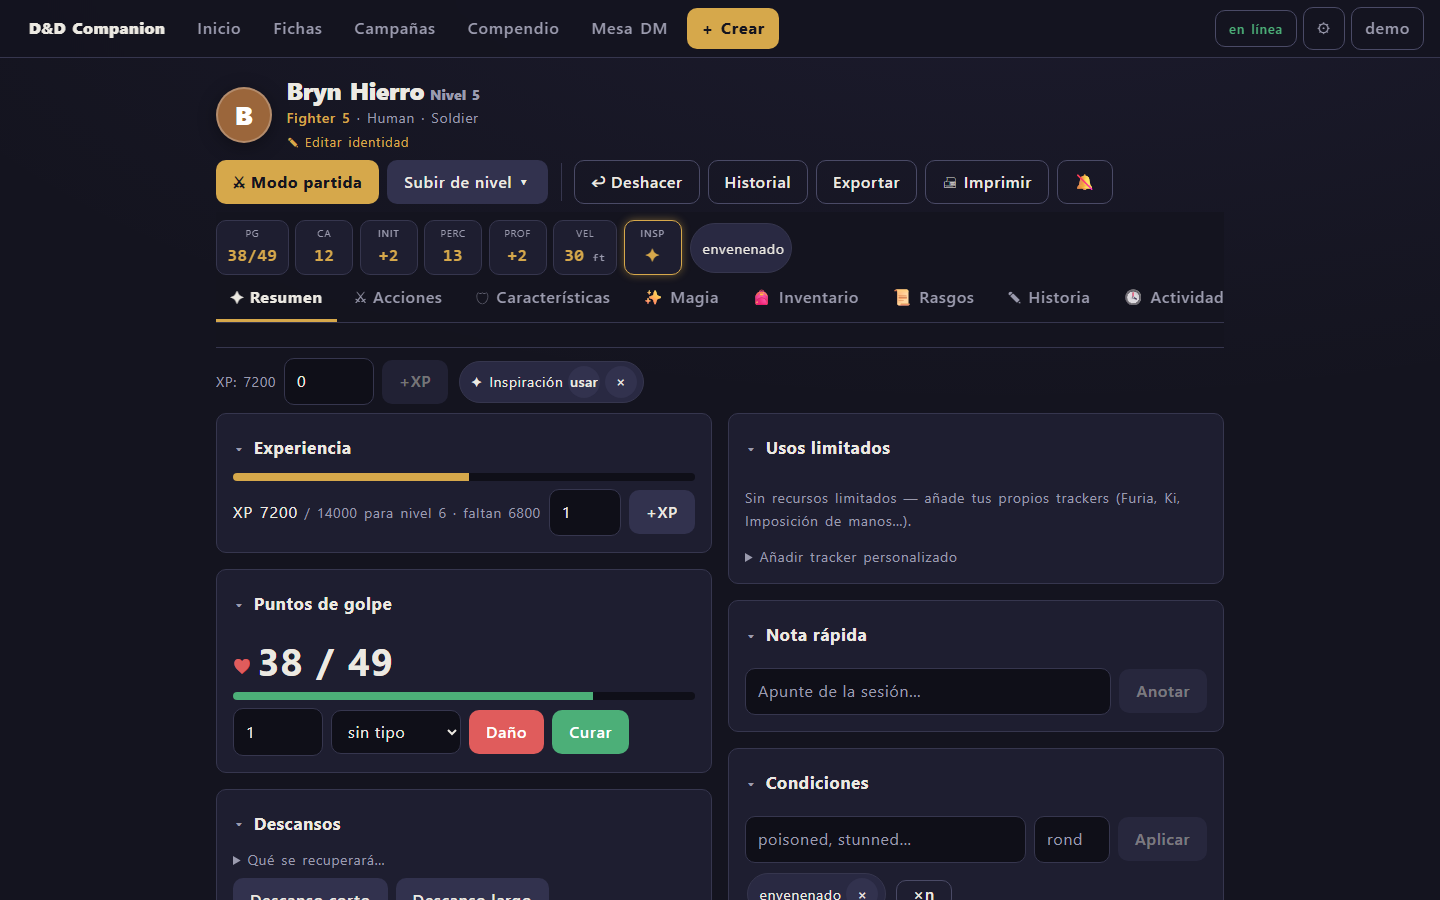
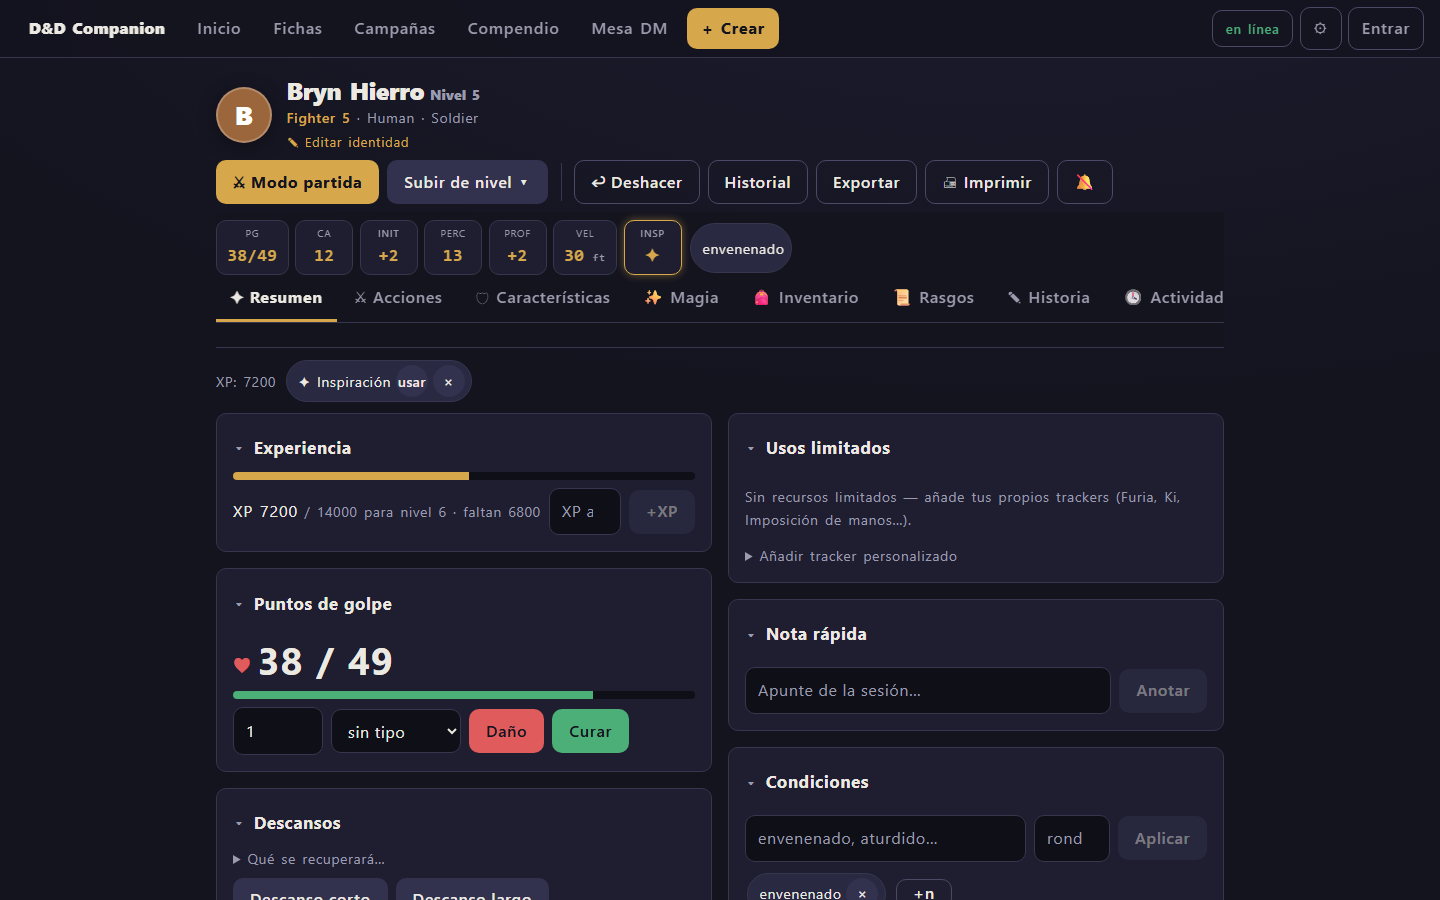
fix(ui): tema HC con botones/titulos invisibles + FAB import
- [data-theme=hc] button{color:#000} oscurecia tambien los
  controles sin fondo (ghost, cabeceras colapsables, tabs): en
  negro sobre negro desaparecian Deshacer/Exportar/titulos de
  seccion — ahora blanco
- ?import=1 en /characters abre el selector de archivo: el enlace
  del FAB movil caia en la lista sin hacer nada
- el menu '+' movil cierra al tocar fuera
- inputs XP/rondas ensanchados (placeholder cortado)
- capturas de temas light/sepia/dyslexia/hc + compendio/ficha

Generated with [Devin](https://devin.ai)

diff --git a/frontend/src/components/ui/Dialogs.jsx b/frontend/src/components/ui/Dialogs.jsx
@@ -1,0 +1,97 @@
+import { createContext, useContext, useEffect, useRef, useState } from 'react'
+import { useT } from '../../i18n.jsx'
+
+/* Diálogos modales para sustituir window.confirm/prompt:
+   - focus trap básico + Esc + click-outside (prompt no cierra fuera
+     porque perder texto es destructivo — sí lo hace confirm)
+   - aria-modal + labelledby + el foco cae al primer control
+   - uso: const { confirm, prompt } = useDialogs()
+     if (await confirm(msg)) … / const v = await prompt(msg, def)   */
+
+const Ctx = createContext(null)
+export const useDialogs = () => useContext(Ctx)
+
+function Dialog({ title, onClose, children }) {
+  const ref = useRef(null)
+  useEffect(() => {
+    // foco al primer control interactivo del diálogo
+    ref.current?.querySelector('input, button.primary, button')
+      ?.focus()
+    const onKey = (e) => {
+      if (e.key === 'Escape') onClose()
+      if (e.key !== 'Tab' || !ref.current) return
+      // focus trap: cicla dentro de los controles del diálogo
+      const els = ref.current.querySelectorAll(
+        'input, select, textarea, button, [href]')
+      if (!els.length) return
+      const first = els[0], last = els[els.length - 1]
+      if (e.shiftKey && document.activeElement === first) {
+        e.preventDefault(); last.focus()
+      } else if (!e.shiftKey && document.activeElement === last) {
+        e.preventDefault(); first.focus()
+      }
+    }
+    document.addEventListener('keydown', onKey)
+    return () => document.removeEventListener('keydown', onKey)
+  }, [onClose])
+  return (
+    <div className="dlg-backdrop" onMouseDown={(e) => {
+      if (e.target === e.currentTarget) onClose()
+    }}>
+      <div ref={ref} className="dlg" role="alertdialog"
+           aria-modal="true" aria-labelledby="dlg-t">
+        <h3 id="dlg-t">{title}</h3>
+        {children}
+      </div>
+    </div>
+  )
+}
+
+export function DialogProvider({ children }) {
+  const { t } = useT()
+  // {kind: 'confirm'|'prompt', title, def, resolve}
+  const [req, setReq] = useState(null)
+  const [value, setValue] = useState('')
+
+  const confirm = (title) =>
+    new Promise((res) => setReq({ kind: 'confirm', title, resolve: res }))
+  const prompt = (title, def = '') =>
+    new Promise((res) => {
+      setValue(def ?? '')
+      setReq({ kind: 'prompt', title, resolve: res })
+    })
+
+  const close = (result) => {
+    req?.resolve(result)
+    setReq(null)
+  }
+
+  return (
+    <Ctx.Provider value={{ confirm, prompt }}>
+      {children}
+      {req?.kind === 'confirm' && (
+        <Dialog title={req.title} onClose={() => close(false)}>
+          <div className="dlg-actions">
+            <button className="ghost" onClick={() => close(false)}>
+              {t('common.cancel')}</button>
+            <button className="danger" onClick={() => close(true)}>
+              {t('common.confirm')}</button>
+          </div>
+        </Dialog>)}
+      {req?.kind === 'prompt' && (
+        <Dialog title={req.title} onClose={() => close(null)}>
+          <form onSubmit={(e) => { e.preventDefault(); close(value) }}>
+            <input value={value} autoFocus
+                   onChange={(e) => setValue(e.target.value)} />
+            <div className="dlg-actions">
+              <button type="button" className="ghost"
+                      onClick={() => close(null)}>
+                {t('common.cancel')}</button>
+              <button type="submit" className="primary">
+                {t('common.ok')}</button>
+            </div>
+          </form>
+        </Dialog>)}
+    </Ctx.Provider>
+  )
+}

diff --git a/frontend/src/pages/CharacterList.jsx b/frontend/src/pages/CharacterList.jsx
@@ -1,5 +1,5 @@
-import { useEffect, useState } from 'react'
-import { Link } from 'react-router-dom'
+import { useEffect, useRef, useState } from 'react'
+import { Link, useLocation } from 'react-router-dom'
 import { api, errText } from '../api.js'
 import { loadJSON } from '../session.js'
 import { useT } from '../i18n.jsx'
@@ -30,10 +30,20 @@ export default function CharacterList() {
   const [archived, setArchived] = useState(() => loadSet(ARCH_KEY))
 
   const [camps, setCamps] = useState([])
+  const importRef = useRef(null)
 
   const load = () => api.listCharacters()
     .then((r) => setChars(r.characters))
     .catch((e) => setErr(errText(e, t)))
+
+  /* el FAB del nav móvil enlaza /characters?import=1 — sin esto el
+     enlace caía en la lista y el import quedaba a otro clic de
+     distancia */
+  const loc = useLocation()
+  useEffect(() => {
+    if (new URLSearchParams(loc.search).has('import'))
+      importRef.current?.click()
+  }, [loc.search])
 
   useEffect(() => {
     load()
@@ -189,7 +199,7 @@ export default function CharacterList() {
              minHeight: 44, padding: '0 1rem', borderRadius: 6,
              border: '1px solid var(--border)' }}>
           {t('charlist.import')}
-          <input type="file" accept=".json" hidden
+          <input ref={importRef} type="file" accept=".json" hidden
                  aria-label={t('charlist.import')}
                  onChange={async (e) => {
                    const f = e.target.files[0]

diff --git a/frontend/src/App.jsx b/frontend/src/App.jsx
@@ -27,12 +27,20 @@ function MobileNav() {
   const { t } = useT()
   const [open, setOpen] = useState(false)
   const go = (to) => { setOpen(false); nav(to) }
-  // Esc cierra el menú del "+" — como cualquier popover
+  // Esc cierra el menú del "+" — como cualquier popover; tocar
+  // fuera también (antes quedaba abierto tapando el contenido)
   useEffect(() => {
     if (!open) return
     const onKey = (e) => { if (e.key === 'Escape') setOpen(false) }
+    const onTap = (e) => {
+      if (!e.target.closest('.mobile-nav')) setOpen(false)
+    }
     window.addEventListener('keydown', onKey)
-    return () => window.removeEventListener('keydown', onKey)
+    window.addEventListener('pointerdown', onTap)
+    return () => {
+      window.removeEventListener('keydown', onKey)
+      window.removeEventListener('pointerdown', onTap)
+    }
   }, [open])
   return (
     <nav className="mobile-nav" aria-label={t('nav.create')}>

diff --git a/frontend/src/components/sheet/TabResumen.jsx b/frontend/src/components/sheet/TabResumen.jsx
@@ -74,6 +74,7 @@ export default function TabResumen({ c }) {
             PG — meter 500 de XP dejaba 500 en Daño */}
         <input type="number" min="1" value={xpAdd || ''}
                placeholder={t('sheet.xpAmount')}
+               style={{ maxWidth: 124 }}
                onChange={(e) => setXpAdd(+e.target.value)}
                aria-label={t('sheet.xpAmount')} />
         <button disabled={!xpAdd} onClick={() => {
@@ -394,7 +395,7 @@ export default function TabResumen({ c }) {
         <input type="number" min="1" placeholder={t('sheet.rounds')}
                title={t('sheet.condDurTitle')}
                aria-label={t('sheet.condDurAria')}
-               style={{ maxWidth: 76 }}
+               style={{ maxWidth: 92 }}
                value={condRounds}
                onChange={(e) => setCondRounds(e.target.value)} />
         <button disabled={!newCond.trim()} onClick={() => {

diff --git a/frontend/src/i18n.jsx b/frontend/src/i18n.jsx
@@ -1048,6 +1048,7 @@ es: {
   'hbm.actionName': 'Acción',
 
   'common.cancel': 'Cancelar', 'common.close': 'Cerrar',
+  'common.confirm': 'Confirmar', 'common.ok': 'Aceptar',
   'common.save': 'Guardar','common.loading': 'Cargando…', 'common.use': 'Usar',
   'nf.title': 'Página no encontrada',
   'nf.hint': 'La dirección no existe o el contenido se ha movido.',
@@ -2087,6 +2088,7 @@ en: {
   'hbm.actionName': 'Action',
 
   'common.cancel': 'Cancel', 'common.close': 'Close',
+  'common.confirm': 'Confirm', 'common.ok': 'OK',
   'common.save': 'Save','common.loading': 'Loading…', 'common.use': 'Use',
   'nf.title': 'Page not found',
   'nf.hint': 'This address does not exist or the content has moved.',

diff --git a/frontend/src/main.jsx b/frontend/src/main.jsx
@@ -3,13 +3,16 @@ import ReactDOM from 'react-dom/client'
 import { BrowserRouter } from 'react-router-dom'
 import App from './App.jsx'
 import { LangProvider } from './i18n.jsx'
+import { DialogProvider } from './components/ui/Dialogs.jsx'
 import './index.css'
 
 ReactDOM.createRoot(document.getElementById('root')).render(
   <React.StrictMode>
     <BrowserRouter>
       <LangProvider>
-        <App />
+        <DialogProvider>
+          <App />
+        </DialogProvider>
       </LangProvider>
     </BrowserRouter>
   </React.StrictMode>,

diff --git a/frontend/src/index.css b/frontend/src/index.css
@@ -95,6 +95,12 @@
   --radius: 6px;
 }
 [data-theme="hc"] button { color: #000; font-weight: 700; }
+/* los botones de texto (ghost, cabeceras colapsables) no tienen
+   fondo claro — negro sobre negro los hacía invisibles */
+[data-theme="hc"] button.ghost,
+[data-theme="hc"] button.csec-btn,
+[data-theme="hc"] [role="tab"],
+[data-theme="hc"] nav[role="tablist"] button { color: #fff; }
 [data-theme="hc"] .card { border: 2px solid #fff; }
 
 /* escala de texto */
